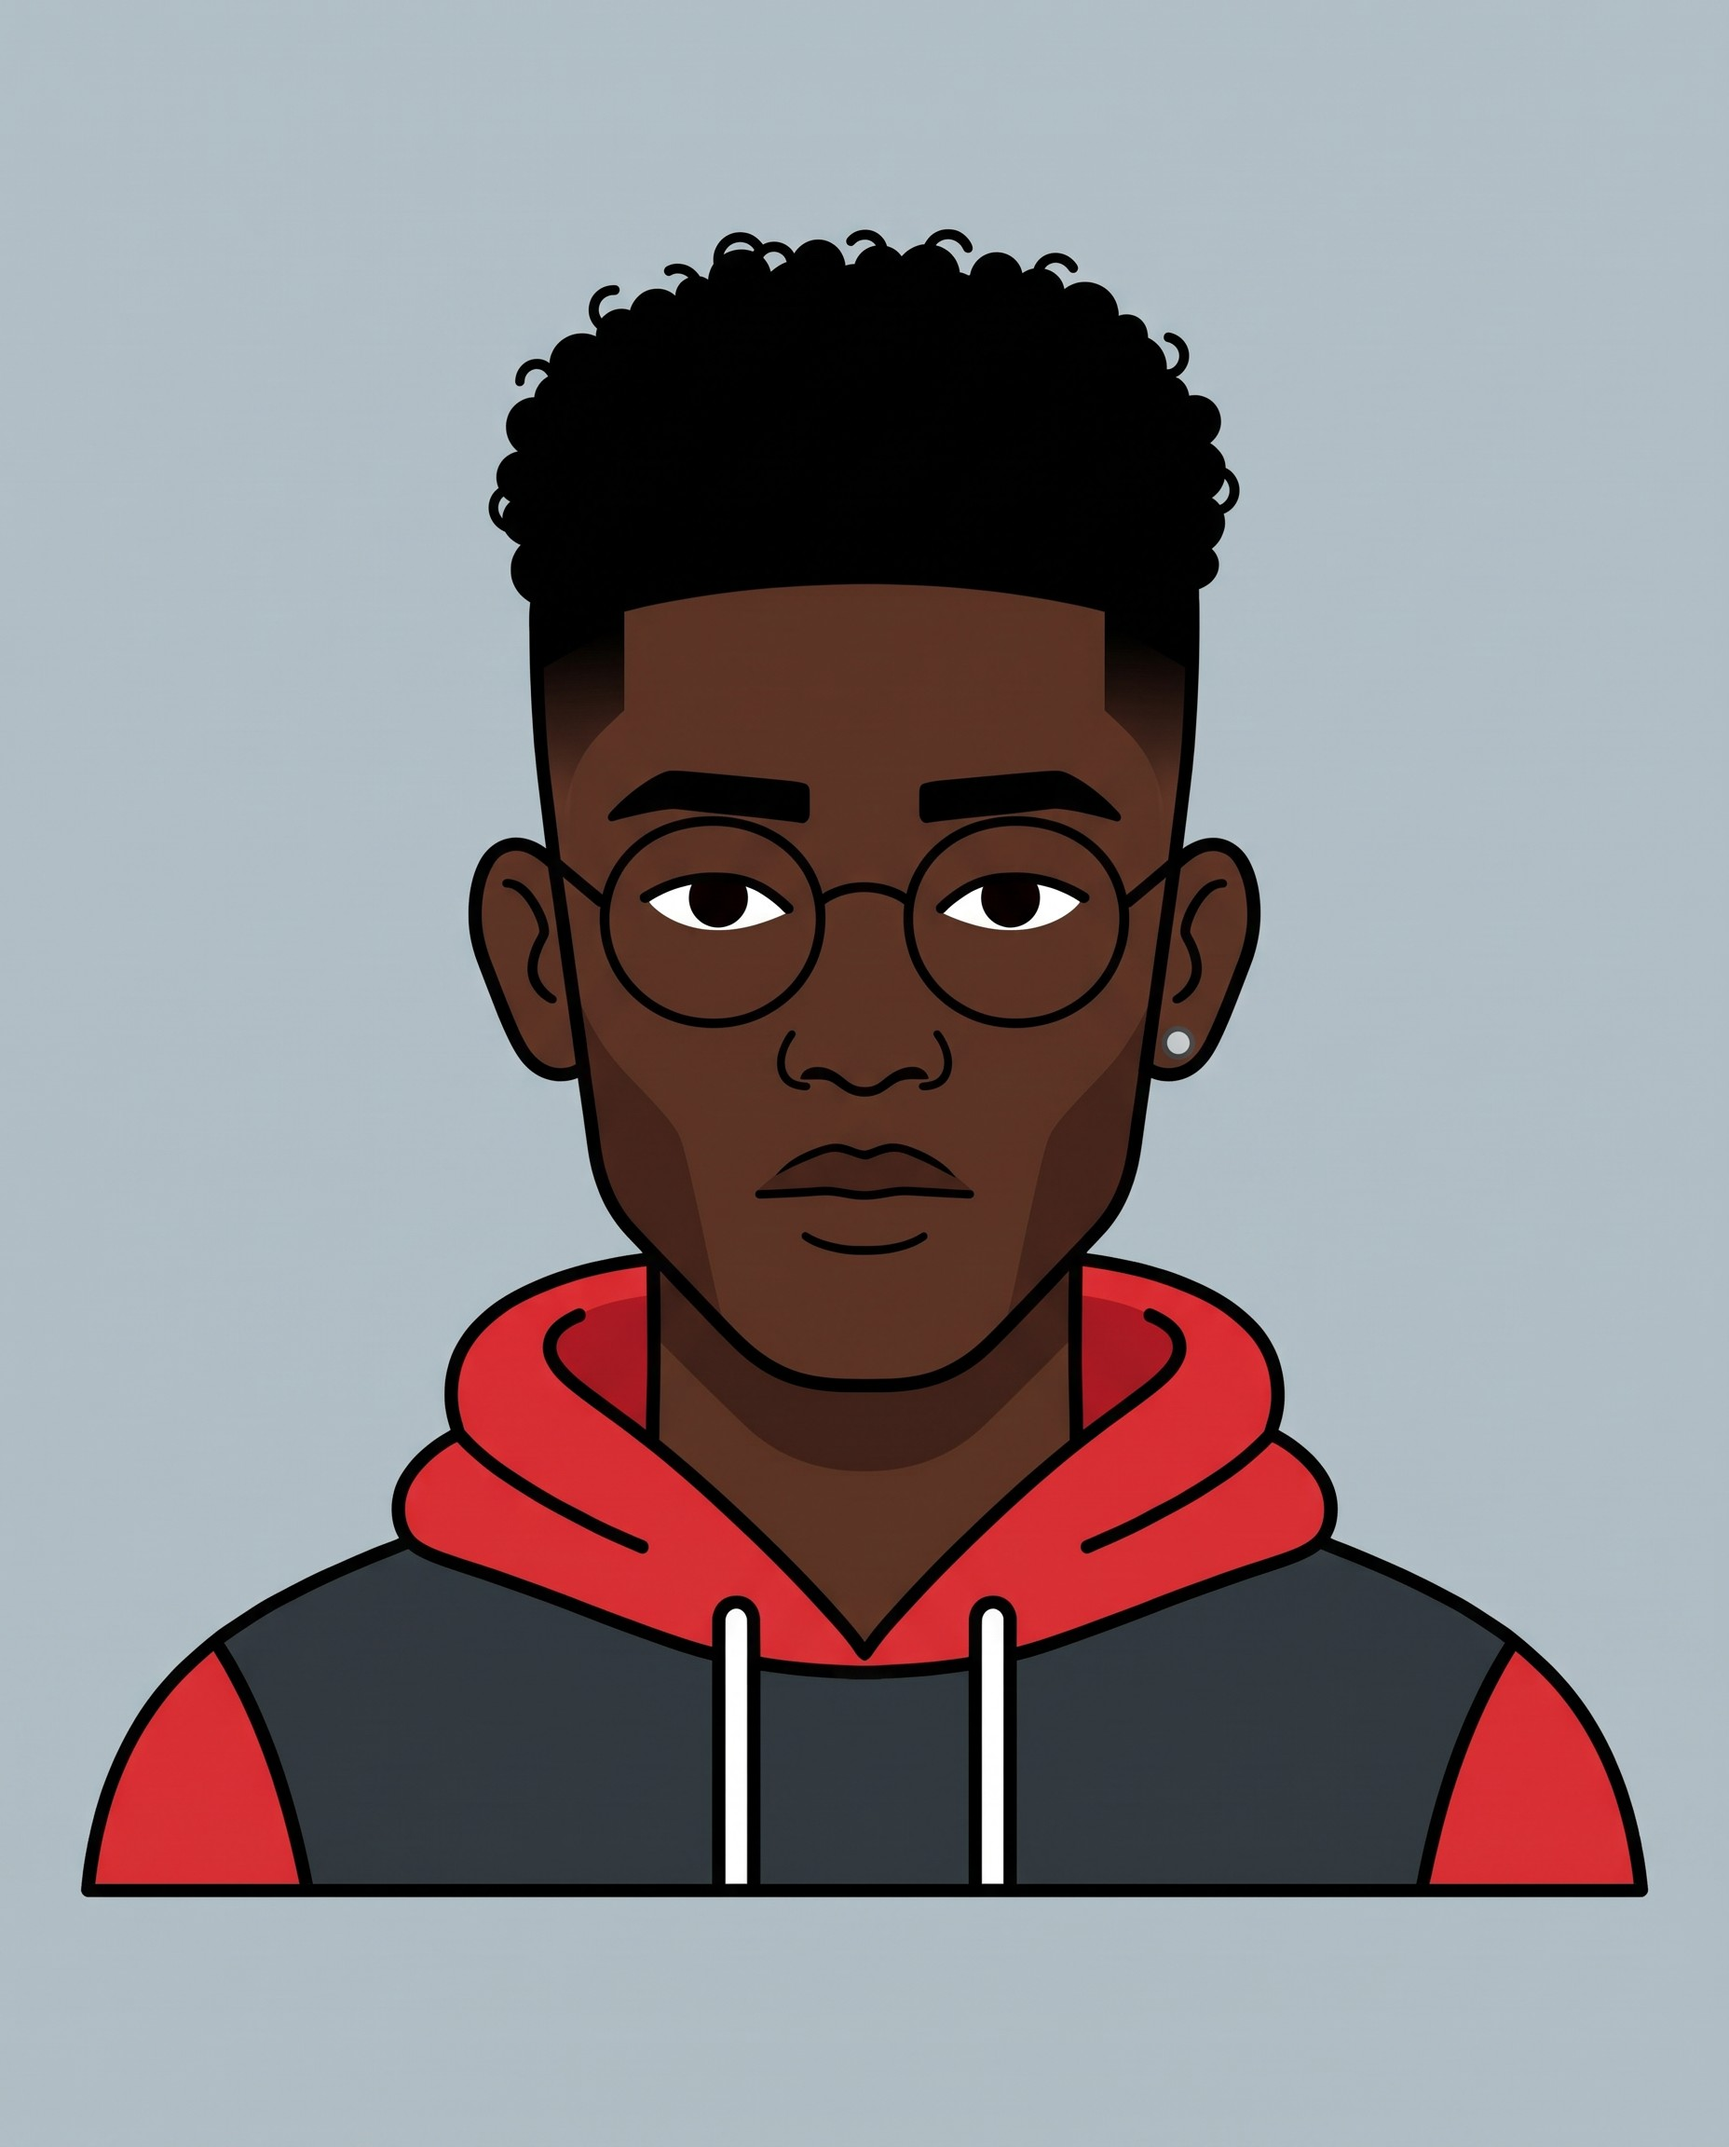
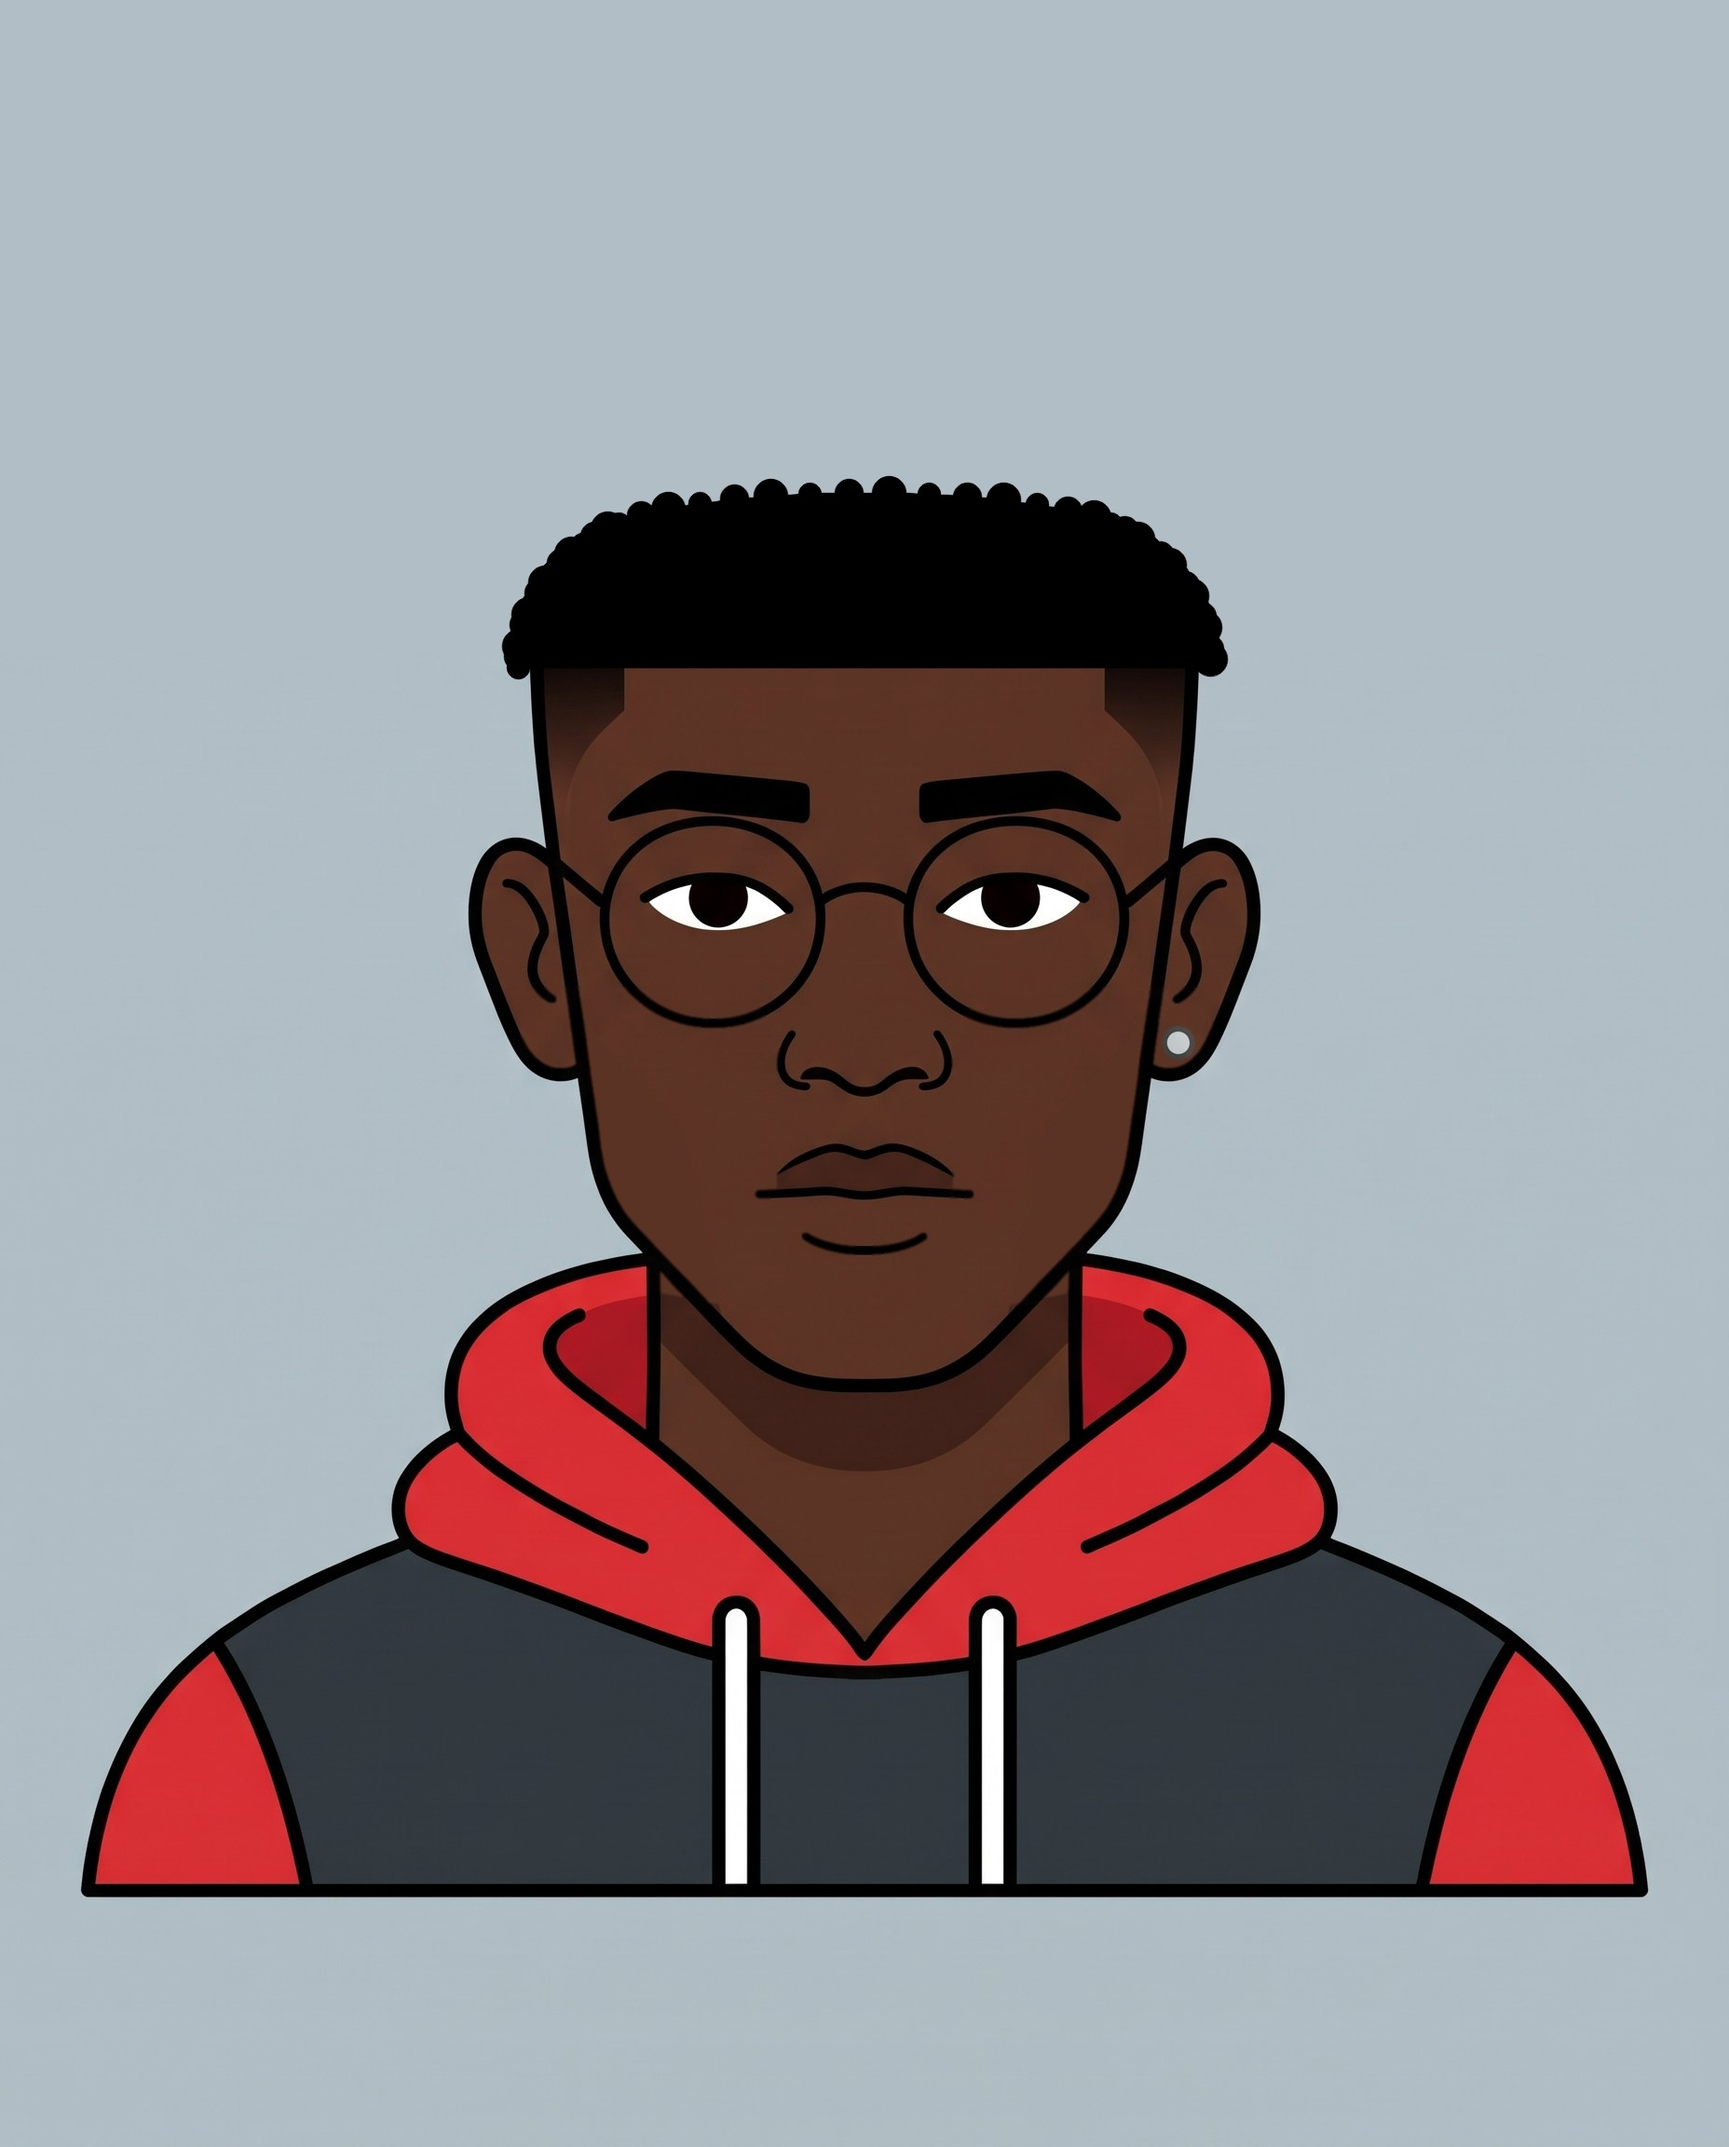
Host art: low fade, clean-shaven jaw
Edits the approved portrait in place: the shadow tone on the cheeks, jaw and
chin is recoloured to plain skin (the nose, lips and everything above the
nose keep their shading), and the high top is replaced by a drawn low fade
that meets the existing line-up and faded sides, with a tight scalloped
edge like the original curls. The original generation is kept beside it.
Reaction marks are anchored to the top of the hair so they follow a
shorter cut.

Claude-Session: https://claude.ai/code/session_01CTvnLS7TEWDTE3fQyBDcgb

Changed region(s): [[0.2812, 0.0938, 0.7188, 0.3125]]

diff --git a/video-pipeline/remotion/src/avatar/RasterHost.tsx b/video-pipeline/remotion/src/avatar/RasterHost.tsx
@@ -433,8 +433,9 @@ export const RasterHost: React.FC<RasterHostProps> = ({pose, face, prevPose, pre
     const kind = expr === 'surprised' ? 'bang' : expr === 'confused' ? 'question' : expr === 'angry' ? 'anger' : expr === 'laugh' ? 'ha' : expr === 'sad' || pose === 'facepalm' ? 'sweat' : pose === 'thumbsup' ? 'sparkle' : expr === 'smug' ? 'smug' : null;
     if (!kind) return null;
     const wob = Math.sin(sinceChange / 3) * 10;
+    const top = ((info as {head_top?: number}).head_top ?? 260) - 260; // marks sit relative to the top of the hair
     return (
-      <g opacity={fade} transform={flip ? `translate(${W} 0) scale(-1 1)` : undefined}>
+      <g opacity={fade} transform={`${flip ? `translate(${W} 0) scale(-1 1)` : ''} translate(0 ${top})`}>
         {kind === 'bang' ? (
           <g transform={`translate(1380 330) scale(${pop})`}>
             {[...Array(8)].map((_, i) => {

diff --git a/video-pipeline/pipeline/host_rig.py b/video-pipeline/pipeline/host_rig.py
@@ -195,9 +195,11 @@ def build(portrait: Path, landmarks: Path, out: Path) -> dict:
         ys, xs = np.where(m > 128)
         return [int(xs.mean()), int(ys.mean())] if len(xs) else [0, 0]
 
+    head_rows = np.where(head_alpha.max(axis=1) > 128)[0]
     info = {
         "width": w,
         "height": h,
+        "head_top": int(head_rows.min()) if len(head_rows) else 0,
         "style": L.get("style", "painted"),
         "glasses": glasses is not None,
         "gaze": gaze if len(gaze) == 2 else None,
